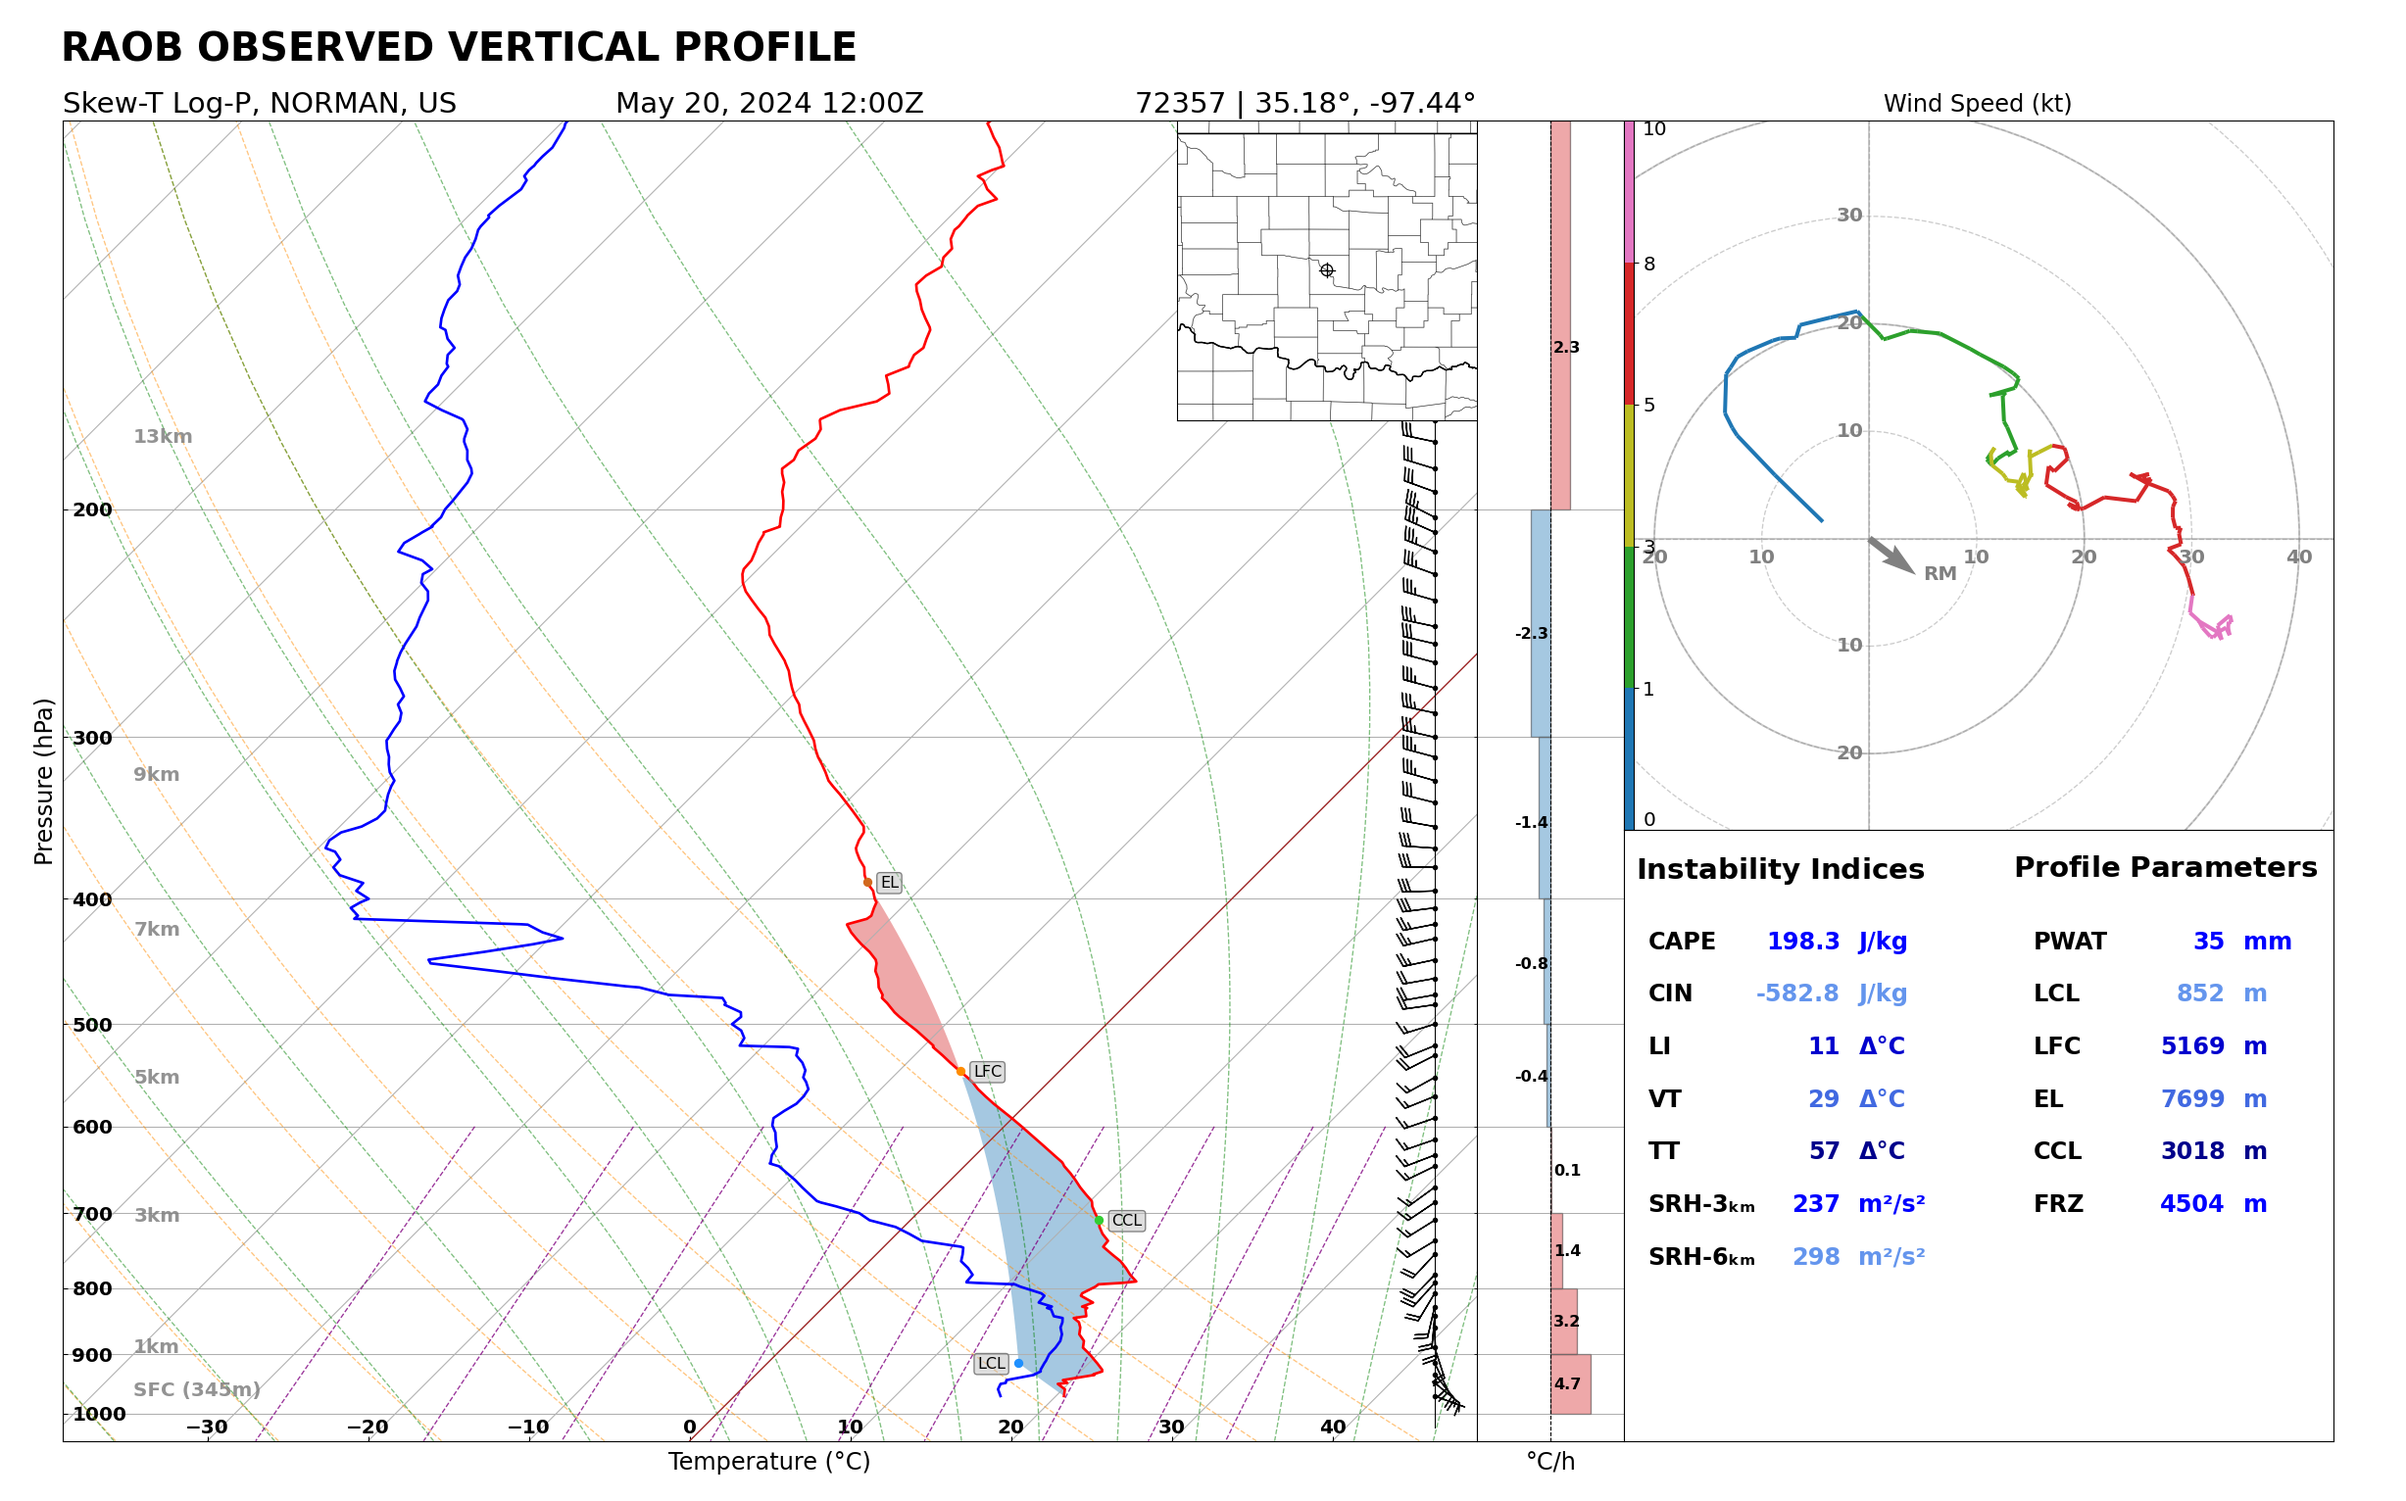
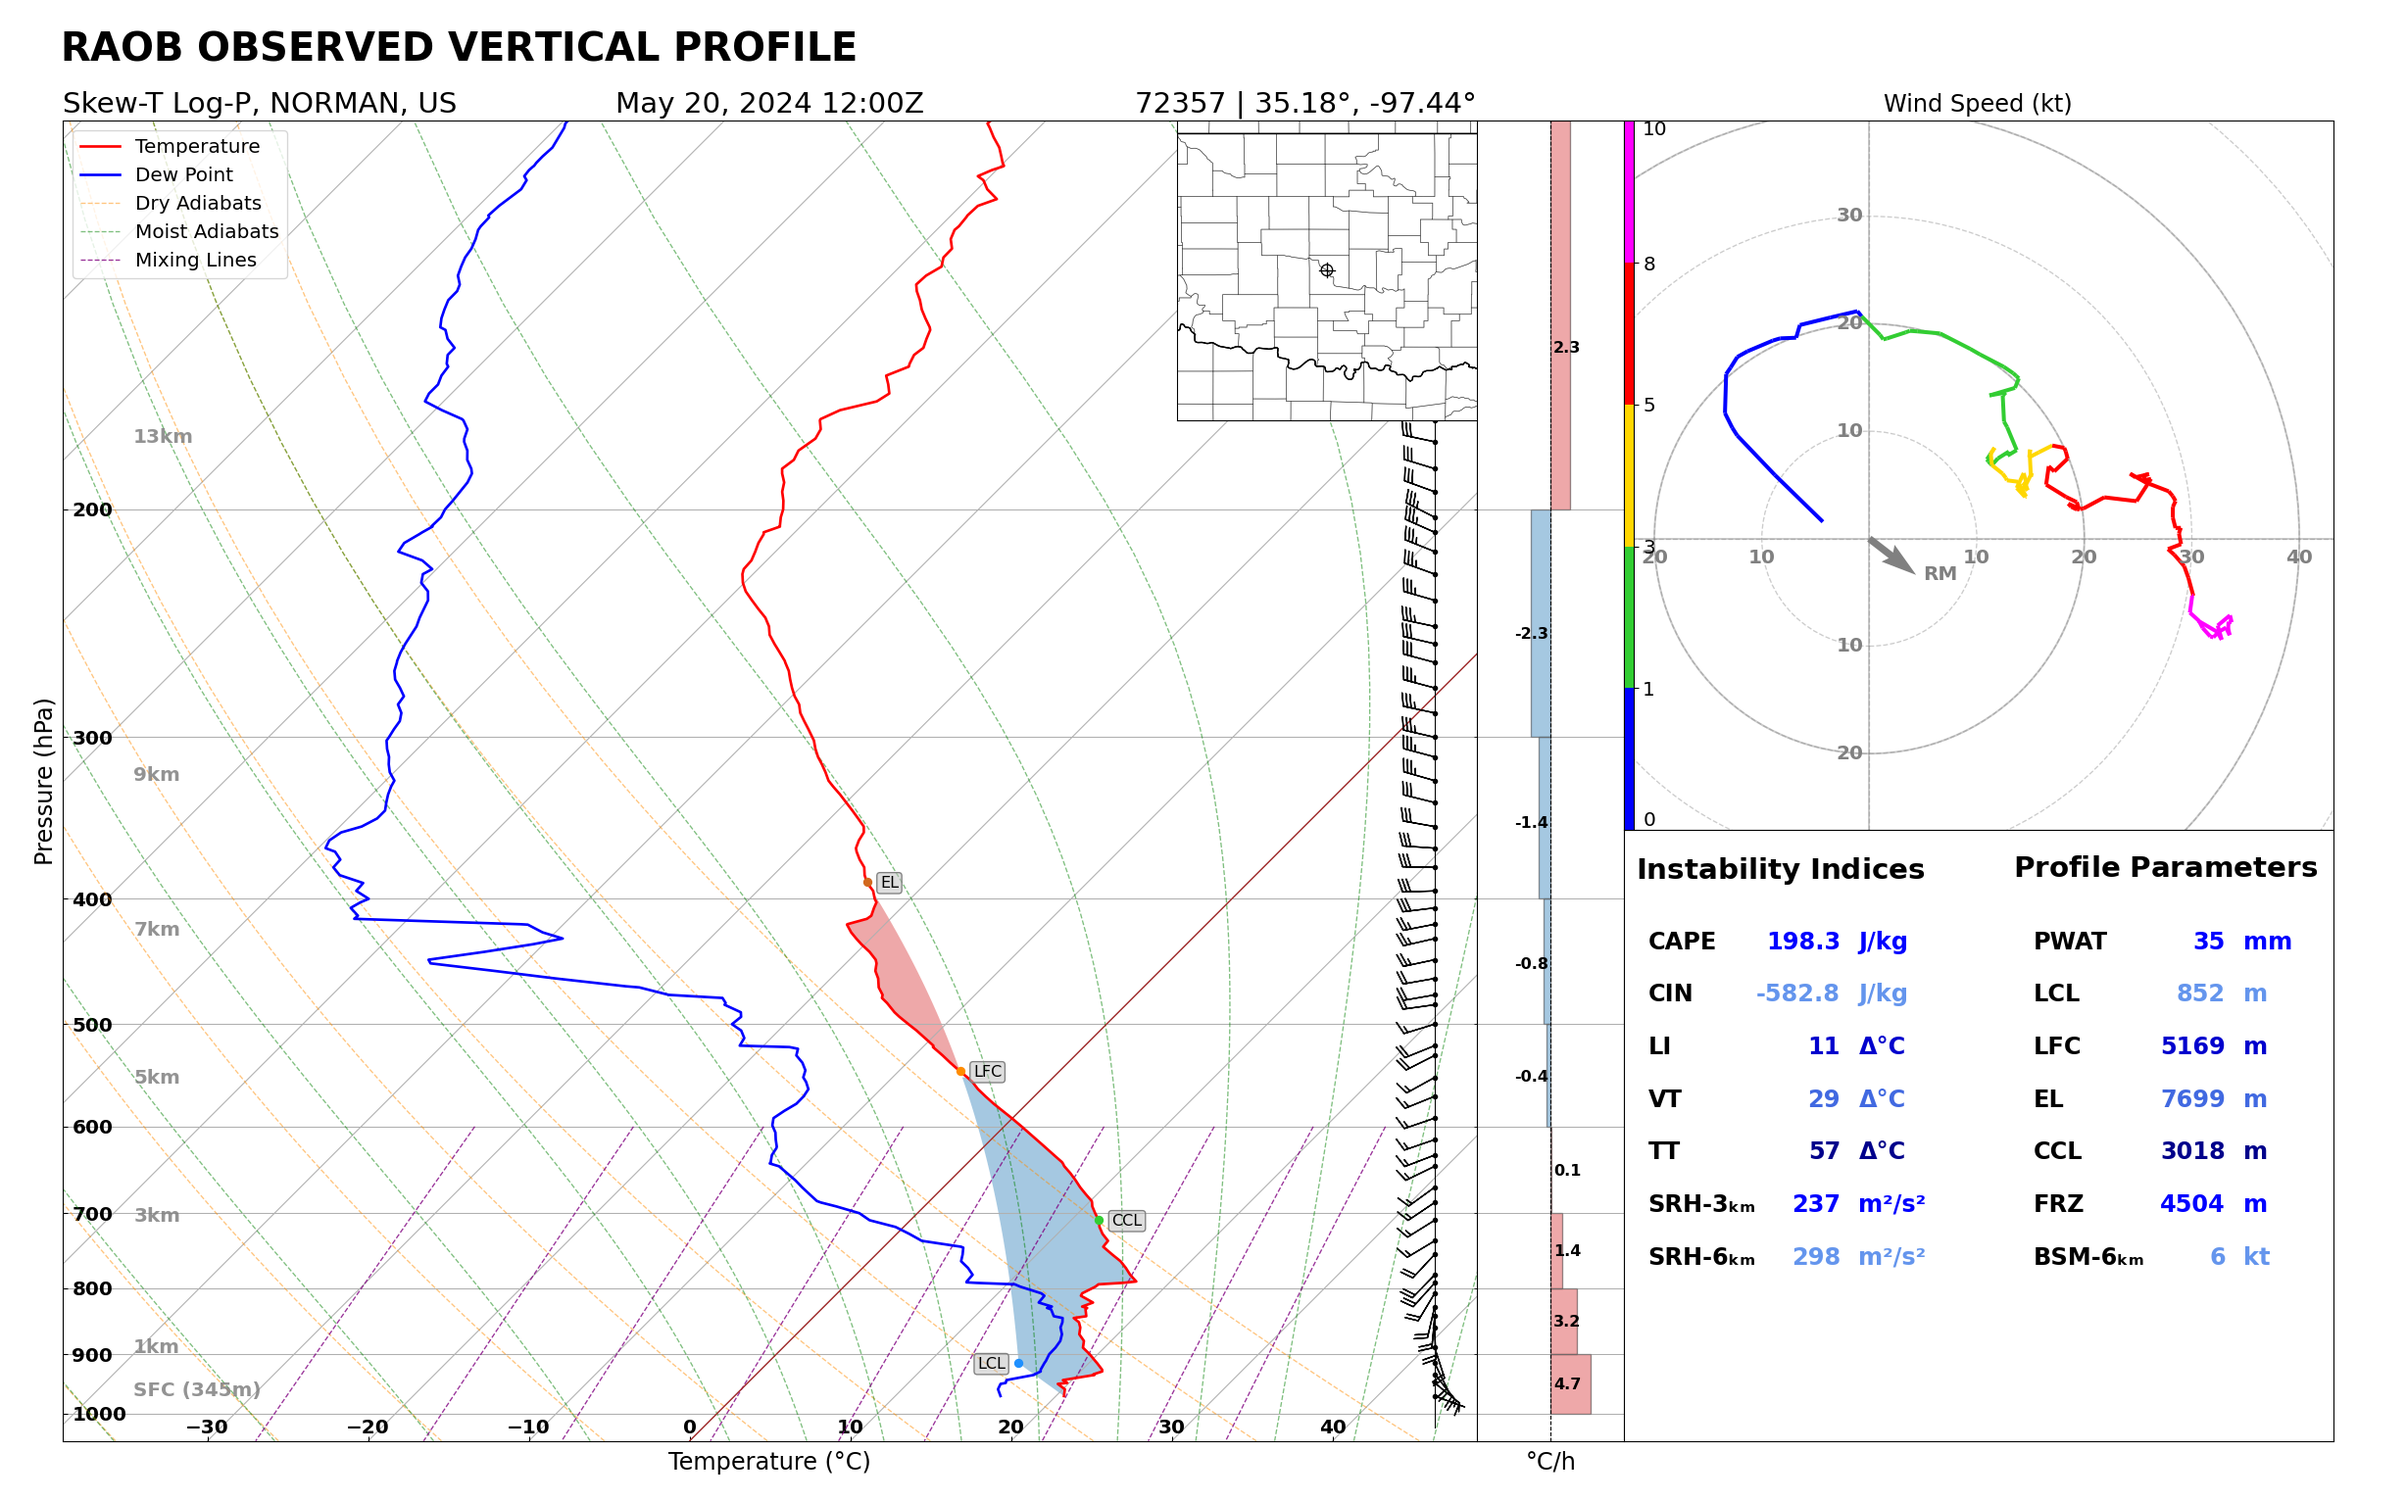
Update files

diff --git a/skewT_plot.py b/skewT_plot.py
@@ -73,6 +73,12 @@ def skewT_plot(pressures, temperatures, dewpoints, wind_u, wind_v, heights, elev
     skew.ax.annotate('CCL', xy=(temperature_ccl, pressure_ccl), xytext=(10, -4),
                  textcoords='offset points', color='black', fontsize=12, ha='left',
                  bbox=dict(facecolor=(0.75, 0.75, 0.75, 0.5), edgecolor='grey', boxstyle='round,pad=0.2'))
+    
+    skew.ax.legend(
+        loc='upper left',
+        fontsize=15,
+        frameon=True,
+    )
 
     # Labels and other adjustments
     plt.xlabel('Temperature (°C)', fontsize=18)
@@ -190,7 +196,7 @@ def skewT_plot(pressures, temperatures, dewpoints, wind_u, wind_v, heights, elev
     agl = (heights - heights[0]) / 1000
     mask = agl <= 10   # Limit to heights below 10 km
     intervals = np.array([0, 1, 3, 5, 8, 10])
-    colors = ['tab:blue', 'tab:green', 'tab:olive', 'tab:red', 'tab:pink']
+    colors = ['blue', 'limegreen', 'gold', 'red', 'magenta']
     
     # Add hodograph on the right
     ax_hodo = fig.add_axes([0.586, 0.447, 0.4725, 0.4725])
@@ -218,10 +224,11 @@ def skewT_plot(pressures, temperatures, dewpoints, wind_u, wind_v, heights, elev
     x_center = (u_max + u_min) / 2  # Center of x-axis
     y_center = (v_max + v_min) / 2  # Center of y-axis
 
-    x_min = x_center - (max(x_range, y_range) / 2) - 0.2 * max(x_range, y_range)
-    x_max = x_center + (max(x_range, y_range) / 2) + 0.2 * max(x_range, y_range)
-    y_min = y_center - (max(x_range, y_range) / 2) - 0.2 * max(x_range, y_range)
-    y_max = y_center + (max(x_range, y_range) / 2) + 0.2 * max(x_range, y_range)
+    offset = 0.4 if u_max <= 20 and v_max <= 20 else 0.2
+    x_min = x_center - (max(x_range, y_range) / 2) - offset * max(x_range, y_range)
+    x_max = x_center + (max(x_range, y_range) / 2) + offset * max(x_range, y_range)
+    y_min = y_center - (max(x_range, y_range) / 2) - offset * max(x_range, y_range)
+    y_max = y_center + (max(x_range, y_range) / 2) + offset * max(x_range, y_range)
 
     # Set the limits to ensure a square plot
     ax_hodo.set_xlim(x_min, x_max)
@@ -427,7 +434,8 @@ def skewT_plot(pressures, temperatures, dewpoints, wind_u, wind_v, heights, elev
         'LFC',
         'EL',
         'CCL',
-        'FRZ'
+        'FRZ',
+        'BSM-6ₖₘ'
     ]
     table_values = [
         f'{pwat:.0f}',
@@ -435,7 +443,8 @@ def skewT_plot(pressures, temperatures, dewpoints, wind_u, wind_v, heights, elev
         'N/A' if np.isnan(height_lfc) else f'{height_lfc:.0f}',
         'N/A' if np.isnan(height_el) else f'{height_el:.0f}',
         f'{height_ccl:.0f}',
-        f'{frz:.0f}'
+        f'{frz:.0f}',
+        f'{np.sqrt(u_storm**2 + v_storm**2):.0f}'
     ]
     table_units = [
         'mm',
@@ -443,7 +452,8 @@ def skewT_plot(pressures, temperatures, dewpoints, wind_u, wind_v, heights, elev
         'm',
         'm',
         'm',
-        'm'
+        'm',
+        'kt'
     ]
 
     # Set the table position (starting X, Y coordinates)

diff --git a/skewT_calc.py b/skewT_calc.py
@@ -40,7 +40,7 @@ def skewT_calc(pressures, temperatures, dewpoints, wind_u, wind_v, heights, lat)
     temperatures_cin = temperatures[cin_indices]
     parcel_cin = parcel[cin_indices]
 
-    # Bunkers storm motion
+    # Bunkers storm motion (SFC-6km)
     bunkers_motion = metpy.calc.bunkers_storm_motion(pressures * units.hPa, wind_u * units.kts, wind_v * units.kts, heights * units.m)
     rm_storm, lm_storm, mean_wind = bunkers_motion
 
